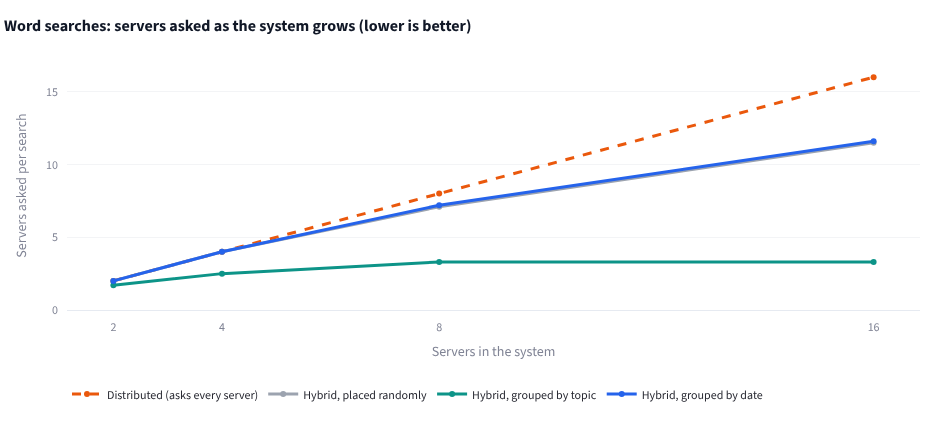
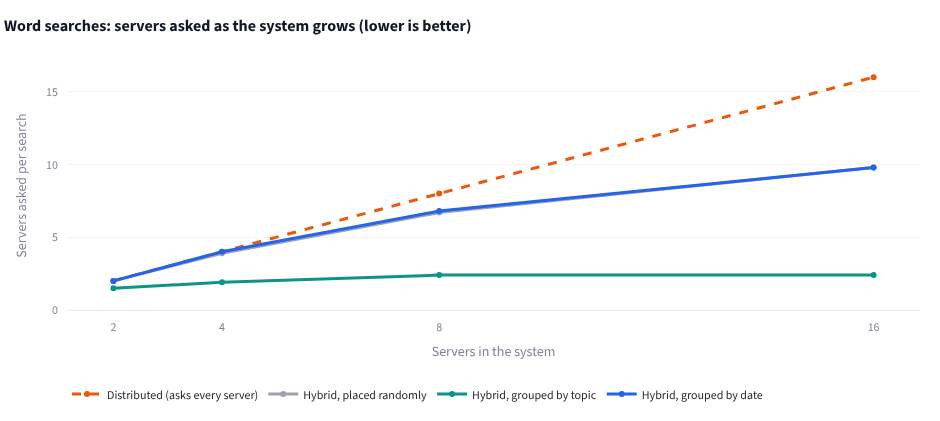
Match all query words by default, with an option to match any word
On real arXiv papers, 'graph neural networks' matched a quarter of the collection because any one
word was enough. Searches now require every word by default, and the directory only routes to
servers that hold every word, so results are tighter and more servers are skipped. The app has an
All/Any choice; the README numbers and charts are updated.

Changed region(s): [[0.1234, 0.3397, 0.9564, 0.7102]]

diff --git a/hybrid_index.py b/hybrid_index.py
@@ -120,20 +120,34 @@ class IndexNode:
         for term, tf in Counter(terms).items():
             self.inverted_index[term][doc.doc_id] = tf
 
-    def search(self, terms: list[str], stats: CorpusStats, months: Months = None) -> list[QueryResult]:
-        """Score every local document that contains at least one query term
-        (and, if `months` is given, is dated within that range)."""
+    def search(self, terms: list[str], stats: CorpusStats, months: Months = None,
+               match_all: bool = True) -> list[QueryResult]:
+        """Score the local documents that match the query: by default they must contain
+        every query term (match_all=False accepts any of them). If `months` is given,
+        only documents dated within that range count."""
         if self.network_delay_ms:
             time.sleep(self.network_delay_ms / 1000)
         self.query_count += 1
+        unique = list(dict.fromkeys(terms))
+        allowed = None
+        if match_all:
+            # Start from the shortest list of documents and keep those that have every term.
+            postings_by_term = sorted((self.inverted_index.get(t, {}) for t in unique), key=len)
+            allowed = set(postings_by_term[0]) if postings_by_term else set()
+            for postings in postings_by_term[1:]:
+                allowed &= postings.keys()
+            if not allowed:
+                return []
         scores: dict[str, float] = defaultdict(float)
-        for term in set(terms):
+        for term in unique:
             postings = self.inverted_index.get(term)
             if not postings:
                 continue
             idf = stats.idf(term)
             self.postings_scanned += len(postings)
             for doc_id, tf in postings.items():
+                if allowed is not None and doc_id not in allowed:
+                    continue
                 if months and not months[0] <= self.doc_month.get(doc_id, 0) <= months[1]:
                     continue
                 length_norm = 1 - BM25_B + BM25_B * self.doc_len[doc_id] / stats.avg_doc_len
@@ -189,13 +203,15 @@ class CentralMetadataIndex:
         return CorpusStats(doc_count=n, avg_doc_len=(self.total_terms / n) if n else 1.0,
                            doc_freq=self.doc_freq)
 
-    def route_query(self, terms: list[str], months: Months = None) -> set[str]:
-        """The smallest set of nodes that can hold a match: they must have one of the
-        terms and, if a date range is given, hold documents from that range."""
+    def route_query(self, terms: list[str], months: Months = None, match_all: bool = True) -> set[str]:
+        """The smallest set of nodes that can hold a match. With match_all a node must hold
+        every term (any of them otherwise); with a date range it must also hold documents
+        from that range."""
         self.lookups += 1
-        candidates: set[str] = set()
-        for term in terms:
-            candidates |= self.term_to_nodes.get(term, set())
+        node_sets = [self.term_to_nodes.get(t, set()) for t in dict.fromkeys(terms)]
+        if not node_sets:
+            return set()
+        candidates = set.intersection(*node_sets) if match_all else set.union(*node_sets)
         if months:
             candidates = {n for n in candidates
                           if n in self.node_months
@@ -328,11 +344,12 @@ class HybridIndexingSystem:
     # ── search ──
 
     def _query_nodes(self, node_ids: list[str], terms: list[str], stats: CorpusStats,
-                     months: Months = None) -> list[QueryResult]:
+                     months: Months = None, match_all: bool = True) -> list[QueryResult]:
         """Send the query to the given nodes at the same time and merge the answers."""
         if len(node_ids) <= 1:
-            return [r for nid in node_ids for r in self.nodes[nid].search(terms, stats, months)]
-        futures = [self._pool.submit(self.nodes[nid].search, terms, stats, months) for nid in node_ids]
+            return [r for nid in node_ids for r in self.nodes[nid].search(terms, stats, months, match_all)]
+        futures = [self._pool.submit(self.nodes[nid].search, terms, stats, months, match_all)
+                   for nid in node_ids]
         return [r for f in futures for r in f.result()]
 
     def _finish(self, mode: str, results: list[QueryResult], nodes_queried: int,
@@ -345,26 +362,29 @@ class HybridIndexingSystem:
                 "nodes_queried": nodes_queried, "total_nodes": len(self.nodes),
                 "latency_ms": elapsed, "mode": mode}
 
-    def hybrid_search(self, query: str, top_k: int = 10, months: Months = None) -> dict:
+    def hybrid_search(self, query: str, top_k: int = 10, months: Months = None,
+                      match_all: bool = True) -> dict:
         """Ask the metadata index which nodes can have matches, then query only those."""
         terms = tokenize(query)
         t0 = time.perf_counter()
-        targets = sorted(self.metadata.route_query(terms, months))
-        results = self._query_nodes(targets, terms, self.metadata.stats(), months)
+        targets = sorted(self.metadata.route_query(terms, months, match_all))
+        results = self._query_nodes(targets, terms, self.metadata.stats(), months, match_all)
         return self._finish("hybrid", results, len(targets), t0, top_k)
 
-    def distributed_search(self, query: str, top_k: int = 10, months: Months = None) -> dict:
+    def distributed_search(self, query: str, top_k: int = 10, months: Months = None,
+                           match_all: bool = True) -> dict:
         """Broadcast the query to every node, with no routing."""
         terms = tokenize(query)
         t0 = time.perf_counter()
-        results = self._query_nodes(self.node_ids, terms, self.metadata.stats(), months)
+        results = self._query_nodes(self.node_ids, terms, self.metadata.stats(), months, match_all)
         return self._finish("distributed", results, len(self.node_ids), t0, top_k)
 
-    def centralized_search(self, query: str, top_k: int = 10, months: Months = None) -> dict:
+    def centralized_search(self, query: str, top_k: int = 10, months: Months = None,
+                           match_all: bool = True) -> dict:
         """One index holding every document."""
         terms = tokenize(query)
         t0 = time.perf_counter()
-        results = self.central.search(terms, self.metadata.stats(), months)
+        results = self.central.search(terms, self.metadata.stats(), months, match_all)
         return self._finish("centralized", results, 1, t0, top_k)
 
     # ── reporting ──

diff --git a/app.py b/app.py
@@ -154,11 +154,13 @@ with st.spinner("Building the index (the first time takes a few seconds)…"):
 
 # ── Drawing the journey of a search ───────────────────────────────────────────
 
-def matches_per_node(terms: list[str], months=None) -> dict[str, int]:
-    def in_range(node, doc_id):
-        return not months or months[0] <= node.doc_month.get(doc_id, 0) <= months[1]
-    return {nid: len({d for t in terms for d in node.inverted_index.get(t, {}) if in_range(node, d)})
-            for nid, node in system.nodes.items()}
+def matches_per_node(terms: list[str], months=None, match_all: bool = True) -> dict[str, int]:
+    """How many documents on each server match, using the same rules as the search."""
+    def count(node):
+        doc_sets = [set(node.inverted_index.get(t, {})) for t in dict.fromkeys(terms)]
+        docs = set.intersection(*doc_sets) if match_all else set.union(*doc_sets)
+        return sum(1 for d in docs if not months or months[0] <= node.doc_month.get(d, 0) <= months[1])
+    return {nid: count(node) for nid, node in system.nodes.items()}
 
 
 def journey_svg(mode: str, asked: set[str], hits: dict[str, int], total_hits: int) -> str:
@@ -282,6 +284,12 @@ def page_search():
     st.text_input("What are you looking for?", key="query")
     st.pills("Or try one of these", examples, key="example", on_change=pick)
 
+    match_label = st.radio("Find documents containing", ["All of my words", "Any of my words"],
+                           horizontal=True,
+                           help="“All” works like Google: every word must appear. “Any” matches far more "
+                                "documents, so the directory can rarely skip a server.")
+    match_all = match_label == "All of my words"
+
     spans = [system.node_date_range(n) for n in system.nodes]
     spans = [sp for sp in spans if sp]
     months, when = None, ""
@@ -299,28 +307,35 @@ def page_search():
         st.info("Type a few words to search.")
         return
 
-    runs = {"hybrid": system.hybrid_search(query, top_k=5, months=months),
-            "distributed": system.distributed_search(query, top_k=5, months=months),
-            "centralized": system.centralized_search(query, top_k=5, months=months)}
+    runs = {"hybrid": system.hybrid_search(query, top_k=5, months=months, match_all=match_all),
+            "distributed": system.distributed_search(query, top_k=5, months=months, match_all=match_all),
+            "centralized": system.centralized_search(query, top_k=5, months=months, match_all=match_all)}
     found = runs["hybrid"]["total_matches"]
     asked = runs["hybrid"]["nodes_queried"]
     n = len(system.nodes)
 
     if found == 0:
-        headline = (f"No document{when} contains those words. Hybrid asked **{asked} of {n} servers**; "
-                    f"the rest were ruled out by the directory.")
+        words = "all of those words" if match_all and len(set(terms)) > 1 else "those words"
+        if asked == 0:
+            headline = (f"No document{when} contains {words}. The directory knew that, "
+                        f"so hybrid **didn't ask any server**.")
+        else:
+            headline = (f"No document{when} contains {words}. Hybrid asked **{asked} of {n} servers** "
+                        f"that might have had one; the directory ruled out the rest.")
     elif asked < n:
         headline = (f"All three found the same **{found:,} document{'s' if found != 1 else ''}{when}**. "
                     f"Hybrid asked **{asked} of {n} servers** and skipped **{n - asked}** that had nothing to offer.")
     else:
+        tip = ("Matching **any** word finds far more documents, so every server has one. Try **All of my words**."
+               if not match_all and len(set(terms)) > 1 else
+               "Try a more specific search, or a different placement in the sidebar.")
         headline = (f"All three found the same **{found:,} documents{when}**. Every server could have a match, "
-                    f"so hybrid had to ask all {n}, the same as distributed. Try a more specific search, "
-                    f"or a different placement in the sidebar.")
+                    f"so hybrid had to ask all {n}, the same as distributed. {tip}")
     headline = re.sub(r"\*\*(.+?)\*\*", r"<b>\1</b>", headline)
     st.markdown(f"<p class='headline'>{headline}</p>", unsafe_allow_html=True)
 
-    hits = matches_per_node(terms, months)
-    hybrid_asked = set(system.metadata.route_query(terms, months))
+    hits = matches_per_node(terms, months, match_all)
+    hybrid_asked = set(system.metadata.route_query(terms, months, match_all))
     cols = st.columns(3)
     for col, mode in zip(cols, ["hybrid", "distributed", "centralized"]):
         r, info = runs[mode], MODES[mode]

diff --git a/tests/test_hybrid_index.py b/tests/test_hybrid_index.py
@@ -28,10 +28,12 @@ def test_tokenizer_keeps_hyphens_and_drops_punctuation():
         "b-tree", "indexes", "key-value", "stores", "real-time", "s3", "data"]
 
 
+@pytest.mark.parametrize("match_all", [True, False])
 @pytest.mark.parametrize("query", QUERIES)
-def test_all_three_modes_return_the_same_ranked_results(system, query):
-    hybrid = system.hybrid_search(query)
-    assert ids(hybrid) == ids(system.distributed_search(query)) == ids(system.centralized_search(query))
+def test_all_three_modes_return_the_same_ranked_results(system, query, match_all):
+    hybrid = system.hybrid_search(query, match_all=match_all)
+    assert (ids(hybrid) == ids(system.distributed_search(query, match_all=match_all))
+            == ids(system.centralized_search(query, match_all=match_all)))
 
 
 @pytest.mark.parametrize("query", QUERIES)
@@ -65,7 +67,7 @@ def test_rare_words_score_higher_than_common_ones():
 
 
 def test_top_k_limits_results_but_reports_all_matches(system):
-    result = system.hybrid_search("distributed indexing nodes", top_k=3)
+    result = system.hybrid_search("distributed indexing nodes", top_k=3, match_all=False)
     assert len(result["results"]) == 3
     assert result["total_matches"] > 3
 
@@ -120,8 +122,8 @@ def test_range_placement_lets_a_date_search_skip_other_years():
     by_hash = build_demo_system(num_nodes=4, strategy="hash")
     one_year = years_to_months(2016, 2016)
     query = "distributed search data indexes"
-    assert by_range.hybrid_search(query, months=one_year)["nodes_queried"] == 1
-    assert by_hash.hybrid_search(query, months=one_year)["nodes_queried"] > 1
+    assert by_range.hybrid_search(query, months=one_year, match_all=False)["nodes_queried"] == 1
+    assert by_hash.hybrid_search(query, months=one_year, match_all=False)["nodes_queried"] > 1
 
 
 def test_topic_placement_balances_documents_when_topic_sizes_differ():
@@ -130,3 +132,21 @@ def test_topic_placement_balances_documents_when_topic_sizes_differ():
     s = HybridIndexingSystem.build(docs, num_nodes=2, strategy="topic")
     counts = sorted(len(node.documents) for node in s.nodes.values())
     assert counts == [50, 50]  # "big" alone, everything else together
+
+
+def test_all_words_is_the_default_and_any_word_is_looser():
+    s = HybridIndexingSystem(num_nodes=2)
+    s.add_document(Document("doc_0", "graph neural networks for molecules"))
+    s.add_document(Document("doc_1", "wireless networks and routing"))
+    s.add_document(Document("doc_2", "neural networks for speech"))
+    assert [r.doc_id for r in s.hybrid_search("graph neural networks")["results"]] == ["doc_0"]
+    loose = {r.doc_id for r in s.hybrid_search("graph neural networks", match_all=False)["results"]}
+    assert loose == {"doc_0", "doc_1", "doc_2"}
+
+
+def test_all_words_lets_the_directory_skip_servers_missing_any_word():
+    s = HybridIndexingSystem(num_nodes=2, strategy="topic")
+    s.add_document(Document("doc_0", "graph neural networks", {"category": "ml"}))
+    s.add_document(Document("doc_1", "wireless networks", {"category": "networking"}))
+    assert s.hybrid_search("graph networks")["nodes_queried"] == 1
+    assert s.hybrid_search("graph networks", match_all=False)["nodes_queried"] == 2

diff --git a/README.md b/README.md
@@ -25,24 +25,26 @@ I indexed 2,000 documents across 2 to 16 servers and ran the same 60 searches at
 | Approach (16 servers) | Word search | Word search limited to one year |
 | --- | --- | --- |
 | Distributed | 16 | 16 |
-| Hybrid, placed randomly | 11.5 | 10.5 |
-| Hybrid, grouped by topic | **3.3** | 3.3 |
-| Hybrid, grouped by date | 11.6 | **1.7** |
+| Hybrid, placed randomly | 9.8 | 9.1 |
+| Hybrid, grouped by topic | **2.4** | 2.4 |
+| Hybrid, grouped by date | 9.8 | **1.4** |
 
 ![Servers asked per word search as the system grows](assets/scale_chart.png)
 
 ![Servers asked per search limited to one year](assets/scale_chart_dated.png)
 
-Each placement wins a different kind of search. The directory can only skip a server if it knows that server can't have a match. With random placement every topic and every year ends up on almost every server, so there's little to skip. Grouping by topic keeps word searches down to about 3 servers however big the system gets. Grouping by date does the same for searches limited to certain years, but helps plain word searches no more than random placement, because every topic shows up every year. The takeaway is to store data the way people search it.
+Each placement wins a different kind of search. The directory can only skip a server if it knows that server can't have a match. With random placement every topic and every year ends up on almost every server, so there's little to skip. Grouping by topic keeps word searches down to about 2 or 3 servers however big the system gets. Grouping by date does the same for searches limited to certain years, but helps plain word searches no more than random placement, because every topic shows up every year. The takeaway is to store data the way people search it.
 
 I also checked that hybrid and centralized search return exactly the same ranked results for every test query, with and without a date limit, so the savings don't come at the cost of missing documents.
+
+How a multi-word search matches matters too. On the arXiv sample, "graph neural networks" matched about a quarter of all 20,000 papers when any one of the words was enough, because nearly every computer science paper mentions networks. Then every server has a match and hybrid can't skip anything. Requiring all of the words, as most search engines do, gives far fewer and more relevant results, and lets the directory skip any server that is missing one of the words.
 
 ## How it works
 
 1. **Tokenizing.** Text is lowercased and split into words. Hyphenated terms like `b-tree` and `real-time` stay whole, punctuation is dropped, and filler words like "the" are ignored.
 2. **Inverted index on each server.** Each server keeps a map from every word to the documents that contain it, the same basic structure Lucene and Elasticsearch use.
 3. **Central directory (metadata index).** Records which servers hold each word, plus collection-wide word counts. It doesn't store any documents, so it stays small.
-4. **Routing.** A hybrid search asks the directory which servers have the query words, and hold documents from the requested dates if there's a date limit, then contacts only those, in parallel.
+4. **Routing.** A hybrid search asks the directory which servers hold all of the query words (or any of them, if you choose), and documents from the requested dates if there's a date limit, then contacts only those, in parallel.
 5. **Ranking with BM25.** Documents that contain more of the query words, and rarer words, rank higher. The directory supplies the collection-wide statistics so every server scores the same way, which is why all three approaches produce identical rankings.
 
 Placement options:
@@ -79,7 +81,7 @@ Each paper's main arXiv category (machine learning, computer vision, databases a
 
 The app opens in your browser and has four pages:
 
-- **Try a search:** type a query, optionally limit it to certain years, and see which servers each approach contacted, with the matching words highlighted in the results.
+- **Try a search:** type a query, choose whether results need all of your words or any of them, optionally limit it to certain years, and see which servers each approach contacted, with the matching words highlighted in the results.
 - **How it works:** a plain-language walkthrough.
 - **What happens at scale:** reruns the experiment above on 500 to 5,000 documents.
 - **Look inside the servers:** what each server holds, and which servers have a given word.
